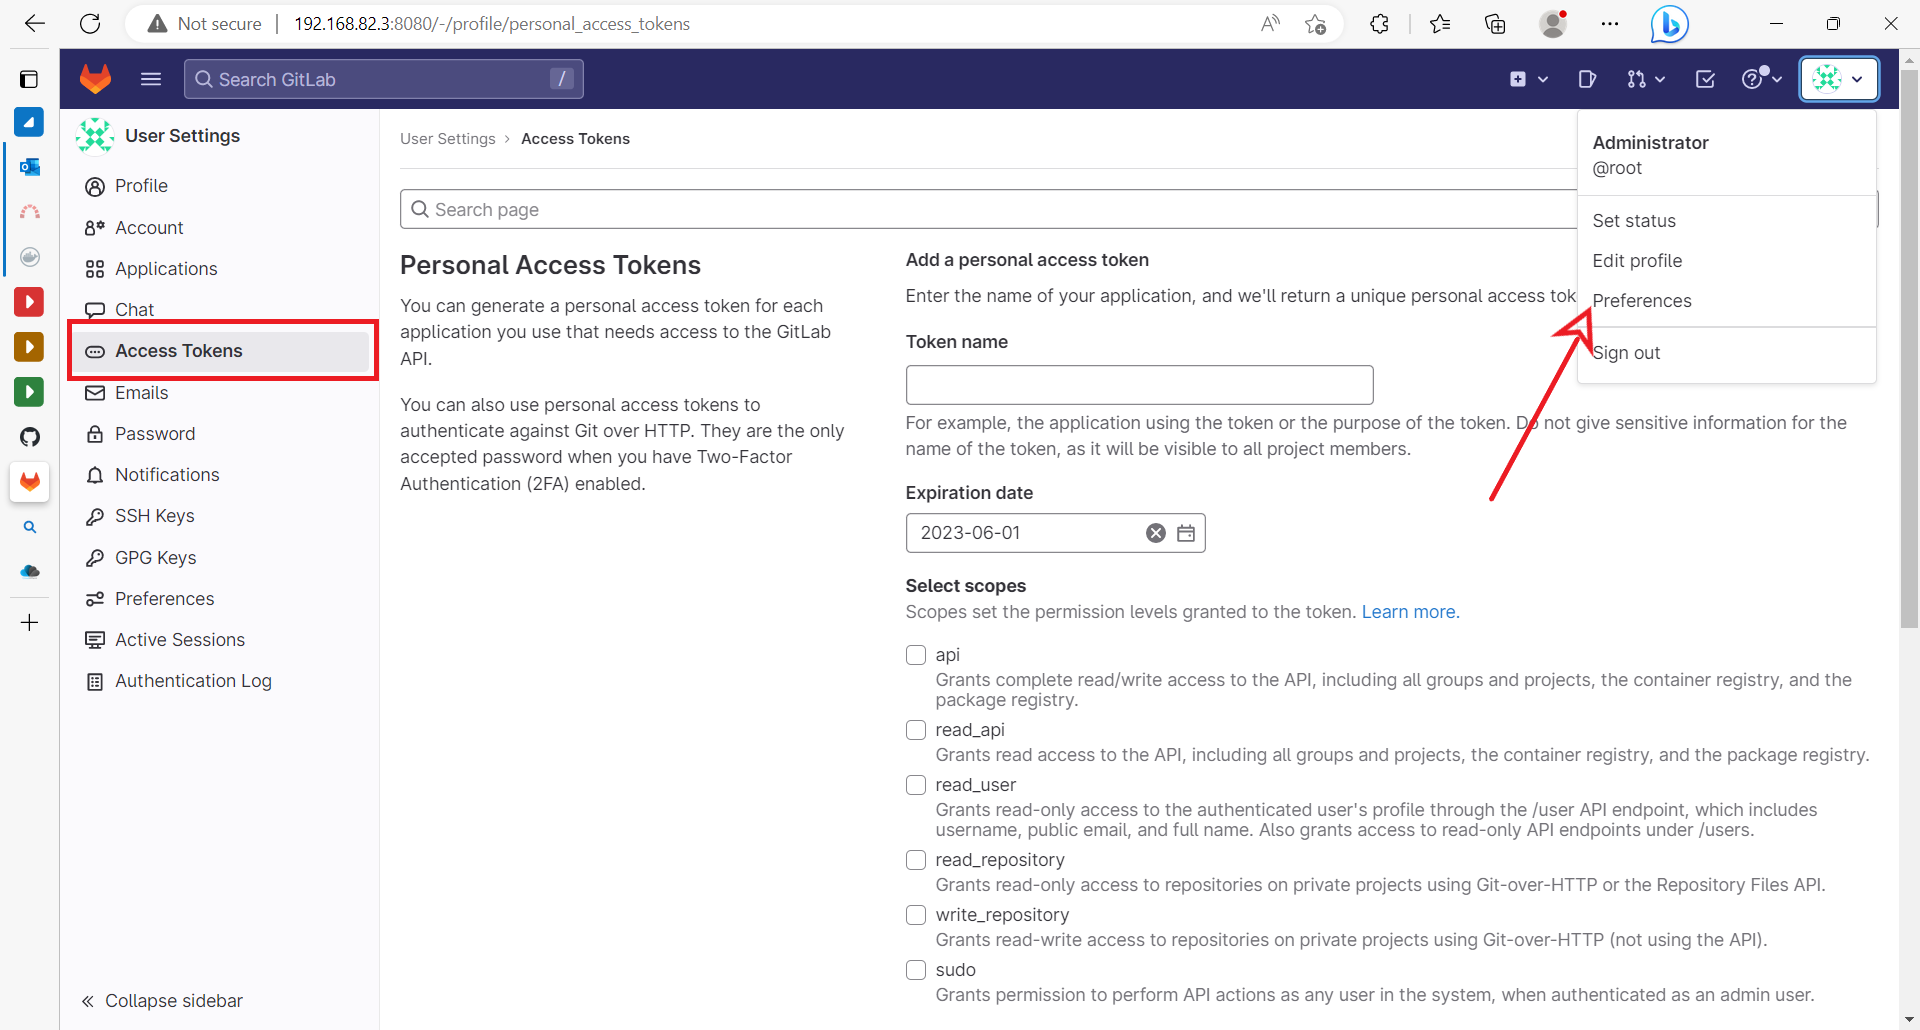
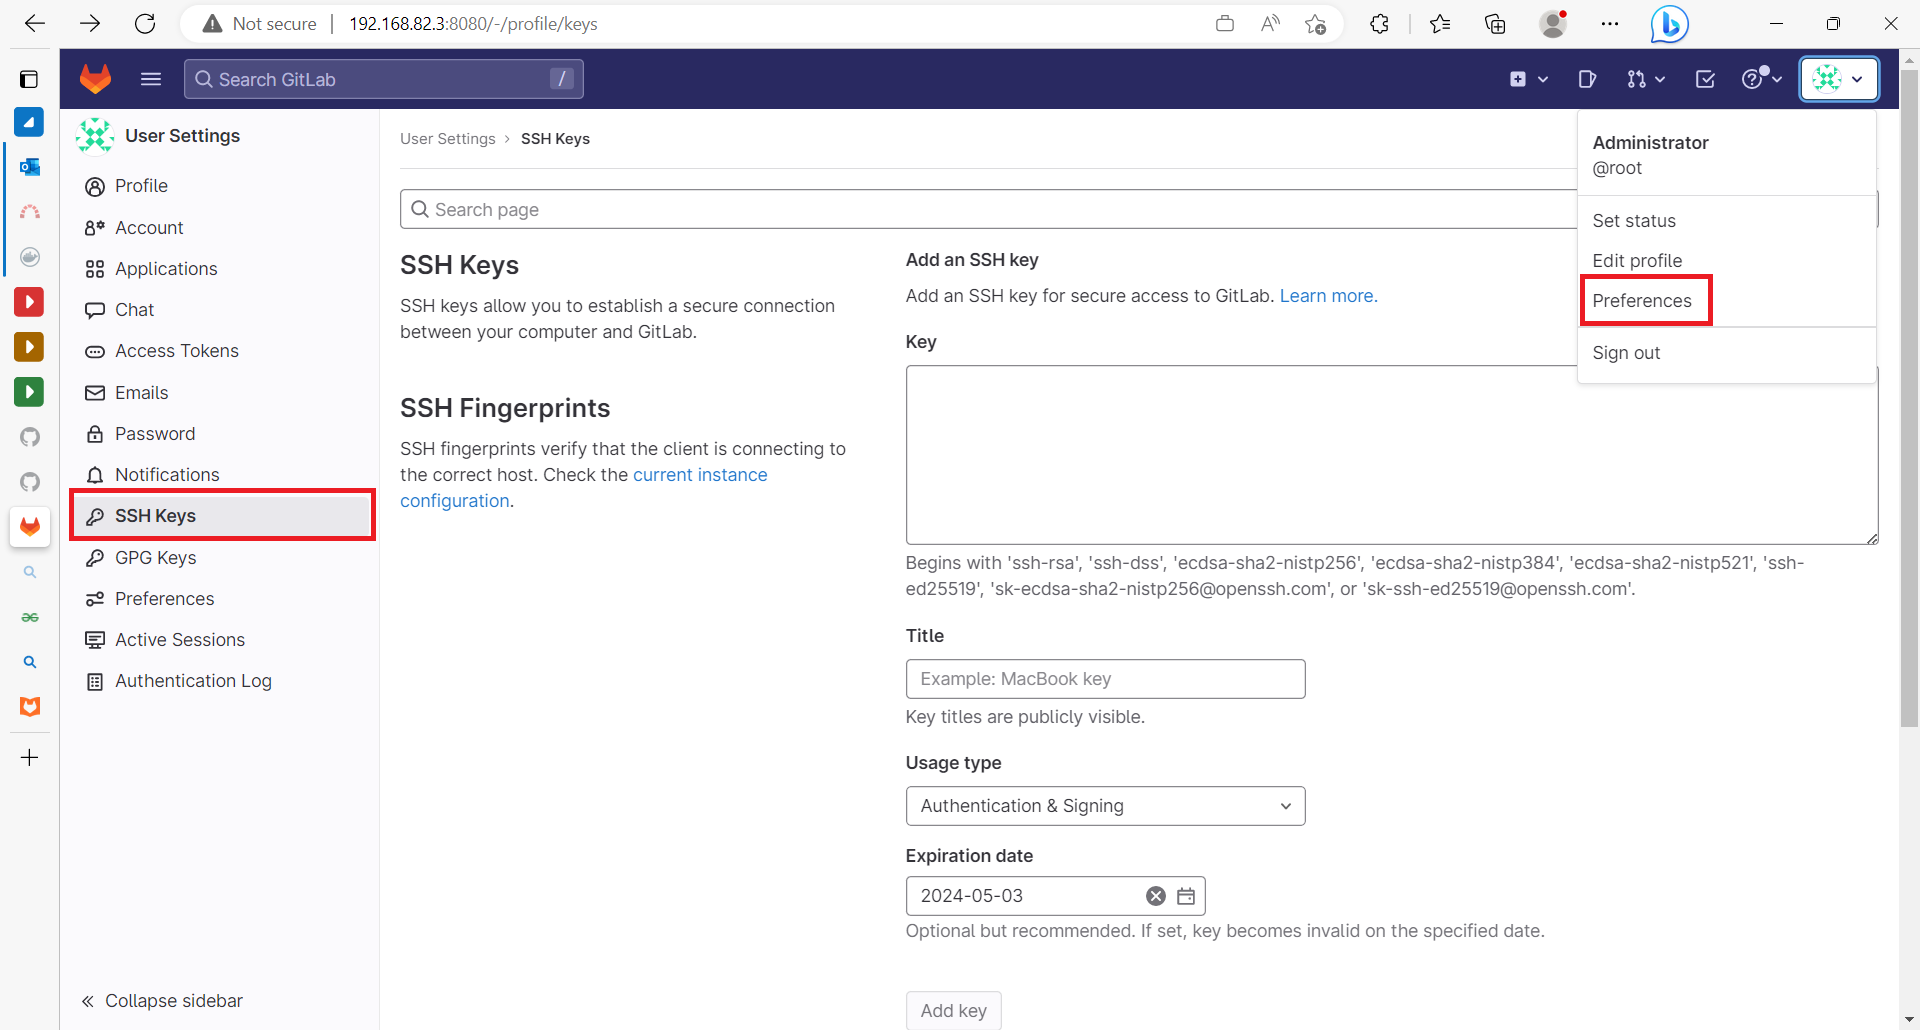
Algunos cambios

diff --git a/script.py b/script.py
@@ -3,22 +3,21 @@ from contextlib import contextmanager
 
 @contextmanager
 def cd(newdir):
-    prevdir = os.getcwd()
-    os.chdir(os.path.expanduser(newdir))
-    try:
-      yield
-    finally:
-      os.chdir(prevdir)
+  prevdir = os.getcwd()
+  os.chdir(os.path.expanduser(newdir))
+  try:
+    yield
+  finally:
+    os.chdir(prevdir)
 
-cvs_module_path = '/usr/local/projecto1/myapp'
-git_path = '~/gitlab/myapp'
+CVS_MODULE_PATH = '/usr/local/projecto1/myapp'
+GIT_PATH = '~/gitlab/myapp'
+GITLAB_SSH_PORT = 8022
 
-os.system('find {} | cvs-fast-export > ~/gitlab/stream.fe'.format(cvs_module_path))
-os.system('git init {}'.format(git_path))
-with cd(git_path):
-  os.system('cd {}'.format(git_path))
-  os.system('git fast-import < ~/gitlab/stream.fe'.format(git_path))
-
+os.system('find {} | cvs-fast-export > ~/gitlab/stream.fe'.format(CVS_MODULE_PATH))
+os.system('git init {}'.format(GIT_PATH))
+with cd(GIT_PATH):
+  os.system('git fast-import < ~/gitlab/stream.fe'.format(GIT_PATH))
   os.system('git remote rename origin old')
-  os.system('git remote add origin ssh://git@localhost:8022/root/myapp.git')
+  os.system('git remote add origin ssh://git@localhost:{}/root/myapp.git'.format(GITLAB_SSH_PORT))
   os.system('git push -u origin --all')

diff --git a/README.md b/README.md
@@ -104,7 +104,6 @@ echo 'export CVSROOT=:pserver:cvsuser@192.168.82.3:2401/usr/local/projecto1' >> 
 ```
 
 ## 3. Darle contenido al repositorio
-
 1. Importamos un nuevo módulo (directorio) que será la raíz del projecto
 ```sh
 cvs import -m "Import inicial" <nombre_modulo> <autor> <rama>
@@ -124,7 +123,6 @@ cvs add index.html -m "archivo index.html"
 ```sh
 cvs commit
 ```
-
 
 ## 4 y 5. Instalación de la herramienta cvs-fast-export
 1. Clonamos el repositorio del projecto
@@ -158,14 +156,13 @@ find . | cvs-fast-export > ~/stream.fe
 ```
 
 ## 6. Instalación de Gitlab en Docker
-
 1. Primero, instalamos Docker siguiendo los pasos de la [documentación oficial](https://docs.docker.com/engine/install/ubuntu/#install-using-the-repository)
 
 2. (Opcional) Para no tener que ejecutar los comandos de docker con sudo, seguimos [estos pasos](https://docs.docker.com/engine/install/linux-postinstall/)
 
 3. Ahora, procedemos a instalar Gitlab mediante Docker siguiendo su documentación oficial. Utilizaremos el método de [docker-compose](https://docs.gitlab.com/ee/install/docker.html#install-gitlab-using-docker-compose)
 
-4. Ejecutamos el [docker-compose.yaml] del repositorio mediante el comando
+4. Ejecutamos el [docker-compose.yaml](/docker-compose.yaml) del repositorio mediante el comando
 ```sh
 docker compose up -d
 ```
@@ -178,7 +175,6 @@ docker exec -it gitlab-web-1 grep 'Password:' /etc/gitlab/initial_root_password
 
 
 ## 7. Migrar el repositorio de cvs a git
-
 1. Creamos la carpeta que será la raíz del repositorio migrado
 ```sh
 mkdir repositorio && cd repositorio
@@ -202,15 +198,22 @@ git checkout -f
 ![cap-8](/images//cap-8.PNG)
 
 ## 8. Automatización del proceso con un script de Python
-
-1. Primero creamos un token en Gitlab para poder usar su API
-![cap-10](/images/cap-10.png)
-
-2. Una vez tenemos nuestro token, creamos un proyecto usando la API de Gitlab, especificando el token y la url del servidor donde tenemos instalado Gitlab:
+1. Para que el script de Python funcione correctamente, antes necesitamos crear una clave SSH para autenticarnos con Gitlab. En esta práctica, vamos a crear una clave ED25519, siguiendo los pasos de la [documentación oficial](https://docs.gitlab.com/ee/user/ssh.html) de Gitlab
 ```sh
-curl --request POST --header "PRIVATE-TOKEN: <token>" \
-     --header "Content-Type: application/json" --data '{
-        "name": "prueba", "description": "Proyecto Prueba", "path": "prueba",
-        "initialize_with_readme": "true"}' \
-     --url 'http://localhost:8080/api/v4/projects/'
+ssh-keygen -t ed25519 -C '<comentario>'
 ```
+
+2. El comando anterior ha generado una clave privada y pública en el directorio /home/[usuario]/.ssh. Copiamos el contenido del archivo 'id_ed25519.pub'
+```sh
+cat ~/.ssh/id_ed25519.pub
+```
+
+3. Desde Gitlab, nos vamos a Preferences > SSH Keys y añadimos nuestra clave pública
+![cap-11](/images//cap-10.png)
+
+4. Por último, ejecutamos el script y comprobamos que el repositorio se ha subido a Gitlab
+```sh
+python3 script.py
+```
+
+![cap-12](/images//cap-11.PNG)
